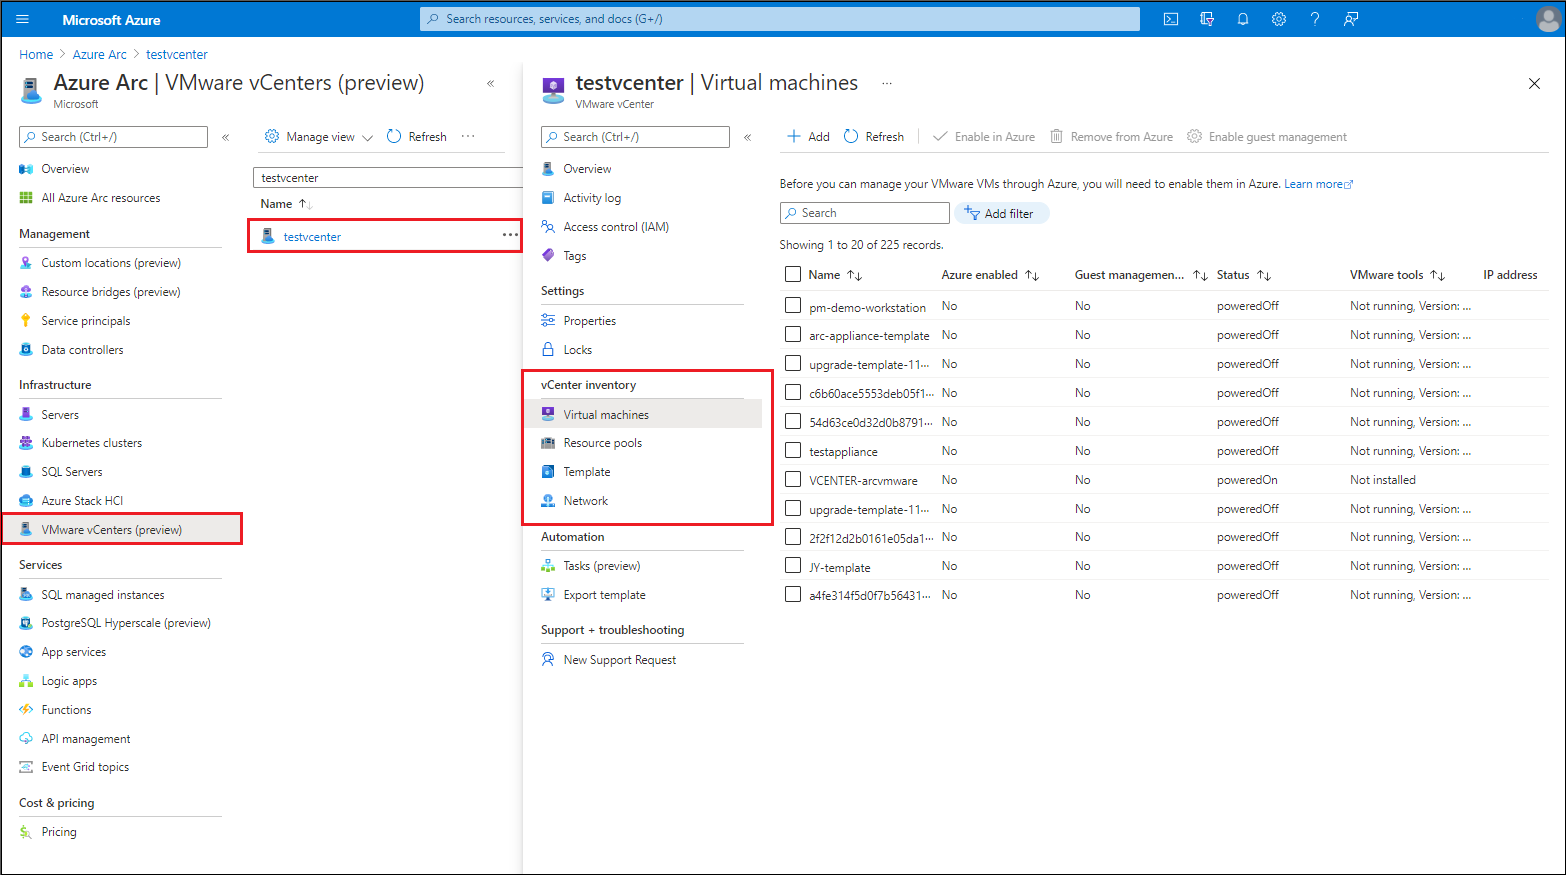
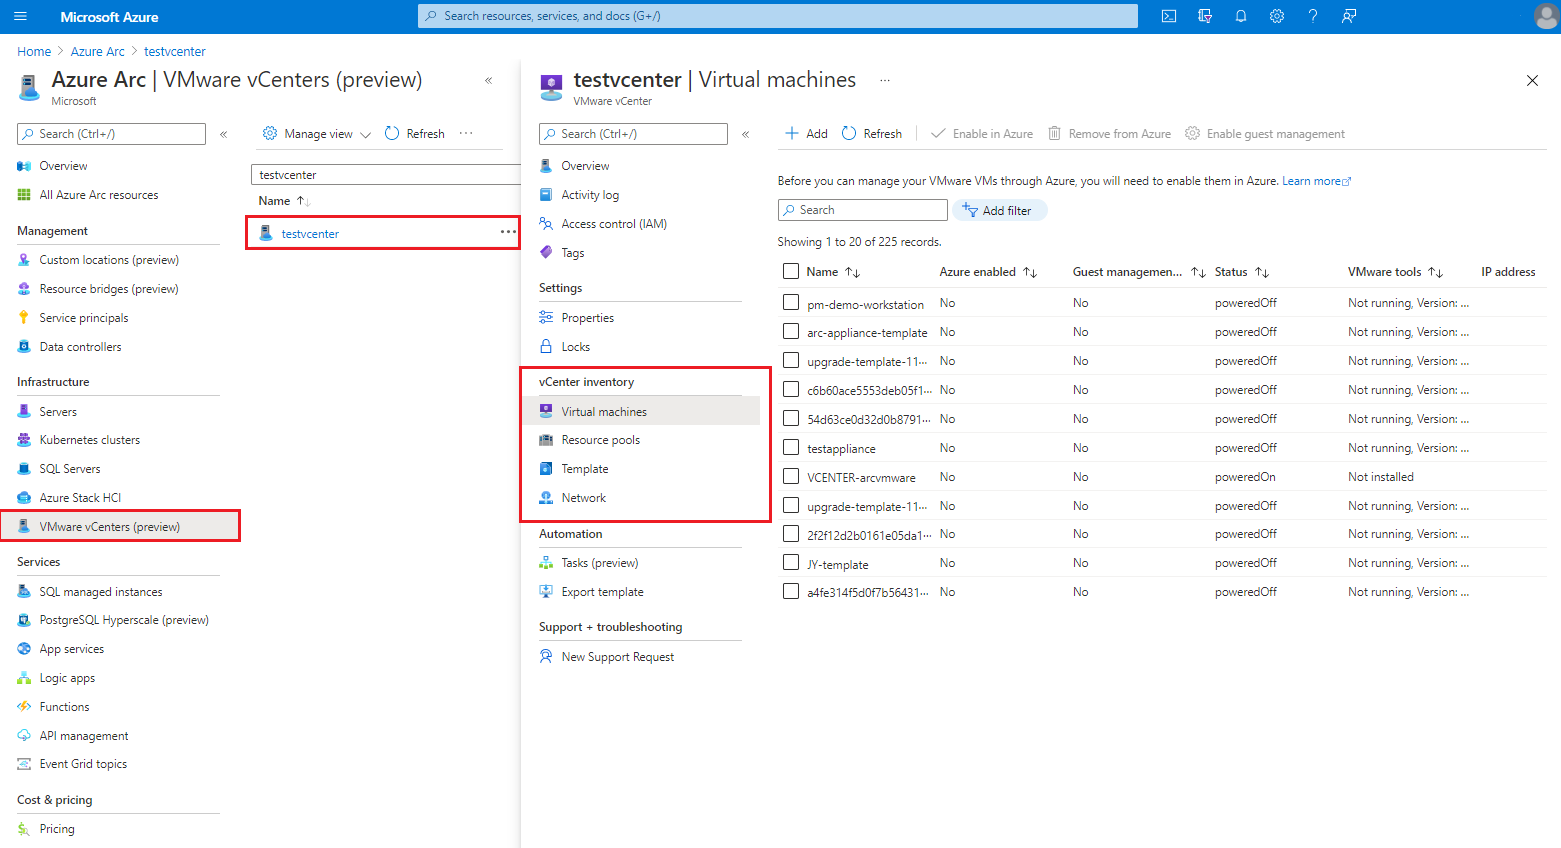
remove borders from images

diff --git a/articles/azure-arc/vmware-vsphere/quick-start-connect-vcenter-to-arc-using-script.md b/articles/azure-arc/vmware-vsphere/quick-start-connect-vcenter-to-arc-using-script.md
@@ -1,18 +1,16 @@
 ---
 title: Connect your VMware vCenter to Azure Arc using the helper script
-description: In this quickstart, you will learn how to use the helper script to connect your VMware vCenter to Azure Arc.
+description: In this quickstart, you'll learn how to use the helper script to connect your VMware vCenter to Azure Arc.
 ms.topic: quickstart 
-ms.custom: 
-ms.date: 09/15/2021
+ms.custom: references_regions
+ms.date: 09/28/2021
 
-# Customer intent: As a VI admin, I want to connect my vCenter to Azure so that I can enable self-service through Arc.
+# Customer intent: As a VI admin, I want to connect my vCenter to Azure to enable self-service through Arc.
 ---
 
 # Quickstart: Connect your VMware vCenter to Azure Arc using the helper script
 
-Before you can start using the Azure Arc enabled VMware vSphere features, you need to connect your VMware vCenter to Azure Arc.
-
-This quickstart shows you how to connect your VMware vCenter to Azure Arc using a helper script. The script deploys a lightweight Azure Arc appliance (called Azure Arc resource bridge) as a virtual machine running in your vCenter environment and install VMware cluster extension on it, to provide a continuous connection between your vCenter server and Azure Arc.
+Before using the Azure Arc-enabled VMware vSphere features, you'll need to connect your VMware vCenter to Azure Arc. This quickstart shows you how to connect your VMware vCenter to Azure Arc using a helper script. First, the script deploys a lightweight Azure Arc appliance, called Azure Arc resource bridge, as a virtual machine running in your vCenter environment. Then, it installs a VMware cluster extension to provide a continuous connection between your vCenter server and Azure Arc.
 
 ## Prerequisites
 
@@ -27,34 +25,33 @@ This quickstart shows you how to connect your VMware vCenter to Azure Arc using 
 
 - vCenter Server running version 6.5 or later.
 
-- Inbound connections allowed on TCP port 443, so that the Arc resource bridge and VMware cluster extension can communicate with the vCenter server.  
+- Inbound connections allowed on TCP port 443 so that the Arc resource bridge and VMware cluster extension can communicate with the vCenter server.  
 
    >[!NOTE]
-   >As of today, only the default port of 443 is supported. If you use a different port, Appliance VM creation fails.  
+   >As of today, only the default port of 443 is supported. If you use a different port, the appliance VM creation fails.  
 
-- A resource pool with minimum free capacity of 16 GB of RAM, 4 vCPUs. 
+- A resource pool with a minimum capacity of 16 GB of RAM, four vCPUs. 
 
-- A datastore with minimum 100 GB of free disk space that is available through the resource pool.
+- A datastore with a minimum of 100 GB of free disk space available through the resource pool.
 
-- An external virtual network/switch and internet access,directly or through proxy to which the appliance VM can be deployed.
+- An external virtual network/switch and internet access, directly or through a proxy.
 
 
 ### vSphere accounts
 
-A vSphere account that can read all inventory, deploy and update VMs to all the resource pools (or clusters), networks and virtual machine templates that you want to use with Azure Arc.  This account is used for the ongoing operation of Azure Arc enabled VMware vSphere as well as the deployment of the Arc Resource bridge VM.
+A vSphere account that can read all inventory, deploy, and update VMs to all the resource pools (or clusters), networks, and virtual machine templates that you want to use with Azure Arc.  This account is used for the ongoing operation of Azure Arc enabled VMware vSphere and the Arc Resource bridge VM deployment.
 
 >[!NOTE]
->If you are using Azure VMware solution, this account would be the `cloudadmin` account.
+>If you are using Azure VMware solution, this account would be the `cloudadmin` account.  
 
 ### Workstation 
 
 A Windows or Linux machine that can access both your vCenter server and internet, directly or through proxy.
 
 
+## Prepare vCenter Server
 
-## Prepare vCenter server
-
-1. Create a resource pool if you don't have one. The resource pool should have a reservation of at least 8 GB of RAM and 4 vCPUs. It should also have at least 100 GB of disk space.
+1. Create a resource pool with a reservation of at least 8 GB of RAM and four vCPUs. It should also have at least 100 GB of disk space.
 
 1. Ensure the vSphere accounts have the appropriate permissions.
 
@@ -66,27 +63,25 @@ A Windows or Linux machine that can access both your vCenter server and internet
 
 | **Parameter** | **Details** | 
 | --- | --- |
-| **Subscription** | Azure subscription name or ID where the Azure resources must be created |
-| **ResourceGroup** | Resource Group where Arc resources must be created |
-| **AzLocation** | Azure location where the resource metadata would be stored. Currently supported regions are eastus and westeurope. |
-| **ApplianceName** | You can provide the Arc resource bridge a name of your choice. Eg: contoso-nyc-appliance |
+| **Subscription** | Azure subscription name or ID where you'll create the Azure resources. |
+| **ResourceGroup** | Resource group where you'll create the Arc resources. |
+| **AzLocation** | Azure location ([region](overview.md#supported-regions)) where the resource metadata would be stored.  |
+| **ApplianceName** | You can provide the Arc resource bridge a name of your choice, for example, *contoso-nyc-appliance*. |
 | **CustomLocationName** | Name for the custom location in Azure. |
-| **VcenterName** | Name for the vCenter in Azure. </br> This will be the name your teams will see when they deploy their VMs through Arc. </br> Name it for the datacenter or physical location of your datacenter. Eg: contoso-nyc-dc |
+| **VcenterName** | Name for the vCenter in Azure, which is the name your teams see when deploying their VMs through Arc. </br> Name it for the data center or physical location of your data center, for example, *contoso-nyc-dc*. |
  
 ### Windows
 
-Follow the below instructions to run the script on a windows machine:
-
 1. Open a PowerShell window and navigate to the folder where you want to keep the setup files.
 
-2. Run the following command to download the script
+2. Download the script.
 
-   ```
+   ```powershell-interactive
    Invoke-WebRequest https://arcvmwaredl.blob.core.windows.net/arc-appliance/arcvmware-setup.ps1 -OutFile arcvmware-setup.ps1
 
    ```
 
-3.	Execute the following command in Powershell to allow the script to run as it is an unsigned script (if you close the session before you complete all the steps, run this again for new session.)
+3.  Allow the script to run as an unsigned script. If you close the session before completing all the steps, rerun this for a new session.
 
     ``` powershell-interactive
     Set-ExecutionPolicy -Scope Process -ExecutionPolicy Bypass
@@ -104,56 +99,66 @@ Follow the below instructions to run the script on a Linux machine:
 
 1. Open the terminal and navigate to the folder where you want to keep the setup files. 
 
-2. Download the onboarding script by running the following command:
+2. Download the onboarding script.
 
    ```
    wget https://arcvmwaredl.blob.core.windows.net/arc-appliance/arcvmware-setup.sh
    ```
 
-3. Update the downloaded script with the following parameters (parameter details [here](#run-the-script)) - ResourceGroup, AzLocation, ApplianceName, CustomerLocationName, VcenterName
+3. Update the script with the following [parameters](#run-the-script):
 
-4. Execute the script using the following comamnd:
+   - ResourceGroup
 
-    ``` sh
+   - AzLocation
+
+   - ApplianceName
+
+   - CustomerLocationName
+
+   - VcenterName
+
+4. Execute the script.
+
+    ```sh
     bash arcvmware-setup.sh 
     ```
 
 ## Script Runtime
-The script execution will take up to half hour and you will be prompted for the various details. Refer to the table below for information on them:
+The script execution may take up to 30 minutes to complete and you'll be prompted for the various details. Refer to the table below for information.
 
 | Requirements | Details |
 | --- | --- |
-| **Azure login** | You would be asked to login to Azure by visiting the [device login](https://www.microsoft.com/devicelogin) site and pasting the prompted code. |
-| **vCenter FQDN/Address** | FQDN for the vCenter (or an ip address). </br> Eg: 10.160.0.1 or nyc-vcenter.contoso.com |
-| **vCenter Username** | Username for the vSphere account. The required permissions for the account are listed in the prerequisites above. |
-| **vCenter password** | Password for the vSphere account |
-| **Data center selection** | Select the name of the datacenter (as shown in vSphere client) where the Arc resource bridge VM should be deployed |
+| **Azure login** | You'll sign into Azure by visiting the [device login](https://www.microsoft.com/devicelogin) site and then pasting the prompted code. |
+| **vCenter FQDN/Address** | FQDN for the vCenter (or an IP address), for example, *10.160.0.1* or *nyc-vcenter.contoso.com*. |
+| **vCenter Username** | Username for the vSphere account. For more information, see [vSphere accounts](#vsphere-accounts) above. |
+| **vCenter password** | Password for the vSphere account. |
+| **Data center selection** | Select the name of the data center (as shown in vSphere client) where the Arc resource bridge VM should be deployed. |
 | **Network selection** | Select the name of the virtual network or segment to which VM must be connected. This network should allow the appliance to talk to the vCenter server and the Azure endpoints (or internet). |
-| **Static IP / DHCP** | If you have DHCP server in your network and want to use it, type ‘y’ else ‘n’. On choosing static IP configuration, you will be asked the following: <ul><li>Static IP address prefix : Network address in CIDR notation E.g. 192.168.0.0/24</li><li>Static gateway: Eg. 192.168.0.0</li><li>DNS servers: Comma separated list of DNS servers</li><li>Start range IP: Minimum size of 2 available addresses is required for upgrade scenarios. Provide the start IP of that range</li><li>End range IP: the last IP of the IP range requested in previous field.</li><li>VLAN ID (Optional)</li></ul> |
-| **Resource pool** | Select the name of the resource pool to which the Arc resource bridge VM would be deployed |
-| **Data store** | Select the name of the datastore to be used for Arc resource bridge VM |
+| **Static IP / DHCP** | If you have a DHCP server in your network and want to use it, type **y** and then populate the following: <ul><li><b>Static IP address prefix</b>: Network address in CIDR notation, for example, 192.168.0.0/24.</li><li><b>Static gateway</b>: For example, 192.168.0.0.</li><li><b>DNS servers</b>: Comma-separated list of DNS servers.</li><li><b>Start range IP</b>: Minimum size of two available addresses is required for upgrade scenarios. Provide the start IP of that range.</li><li><b>End range IP</b>: Last IP of the IP range requested in the previous field.</li><li><b>VLAN ID</b> (optional)</li></ul> |
+| **Resource pool** | Select the name of the resource pool to which the Arc resource bridge VM would be deployed. |
+| **Data store** | Select the name of the datastore to be used for Arc resource bridge VM. |
 | **Folder** | Select the name of the vSphere folder where Arc resource bridge VM should be deployed. |
-| **Vm template Name** | Provide a name for the VM template that will be created in your vCenter based on the downloaded OVA. Eg: arc-appliance-template |
-| **Control Pane IP** | Provide a reserved IP address (a reserved IP address in your DHCP range or a static IP outside of DHCP range but still available on the network). The key thing is this IP address shouldn't be assigned to any other machine on the network. |
-| **Appliance proxy settings** | Type ‘y’ if there is proxy in your appliance network, else type ‘n’. </br> You need to populate the following when you have proxy setup: <ul><li>Http: Address of http proxy server</li><li>Http: Address of http proxy server</li><li>NoProxy: addresses to be excluded from proxy</li><li>CertificateFilePath: for ssl based proxies, path to certificate to be used</li></ul> |
+| **Vm template Name** | Provide a name for the VM template that will be created in your vCenter based on the downloaded OVA. For example,  arc-appliance-template. |
+| **Control Pane IP** | Provide a reserved IP address. A reserved IP address in your DHCP range or a static IP outside of DHCP range but still available on the network. The key thing is this IP address shouldn't be assigned to any other machine on the network. |
+| **Appliance proxy settings** | If you have a proxy in your appliance network, type **y** and then populate the following: <ul><li><b>Http</b>: Address of HTTP proxy server.</li><li><b>NoProxy</b>: addresses to be excluded from proxy.</li><li><b>CertificateFilePath</b>: for SSL-based proxies, path to certificate to be used.</li></ul> |
 
-Once the command execution completed, your setup is complete and you can try out the capabilities of Azure Arc enabled VMware vSphere. You can proceed to the [next steps](browse-and-enable-vcenter-resources-in-azure.md)
+Once the command execution completes, you can [try out the capabilities](browse-and-enable-vcenter-resources-in-azure.md) of Azure Arc enabled VMware vSphere. 
 
 ### Retry command - Windows
 
-1. If for whatever reason, the appliance creation fails and you need to retry it. Running the command with `-Force` would cleanup and onboard again. 
+If the appliance creation fails and you need to retry it. Run the command with `-Force` would clean up and onboard again. 
 
-   ``` powershell-interactive
-   ./arcvmware-setup.ps1 -Force -Subscription <Subscription> -ResourceGroup <ResourceGroup> -AzLocation <AzLocation> -ApplianceName <ApplianceName> -CustomLocationName <CustomLocationName> -VcenterName <VcenterName>
-   ```
+``` powershell-interactive
+./arcvmware-setup.ps1 -Force -Subscription <Subscription> -ResourceGroup <ResourceGroup> -AzLocation <AzLocation> -ApplianceName <ApplianceName> -CustomLocationName <CustomLocationName> -VcenterName <VcenterName>
+```
 
 ### Retry command - Linux
 
-1. If for whatever reason, the appliance creation fails and you need to retry it. Running the command with ```--force``` would cleanup and onboard again. 
+If the appliance creation fails and you need to retry it. Run the command with `--force` would clean up and onboard again. 
 
-    ```sh
-    bash arcvmware-setup.sh --force
-    ```
+```bash
+bash arcvmware-setup.sh --force
+```
 
 ## Next Steps
 

diff --git a/articles/azure-arc/vmware-vsphere/quick-start-create-a-vm.md b/articles/azure-arc/vmware-vsphere/quick-start-create-a-vm.md
@@ -9,17 +9,17 @@ ms.date: 04/05/2021
 
 # Quickstart: Create a virtual machine on VMware vCenter using Azure Arc
 
-Once your administrator has connected a VMware vCenter to Azure, represented VMware vCenter resources in Azure and provided you permissions on those resources in Azure, you will be able to create a virtual machine
+Once your administrator has connected a VMware vCenter to Azure, represented VMware vCenter resources in Azure, and provided you permissions on those resources, you'll be able to create a virtual machine.
 
-## Pre-requisites
+## Prerequisites
 
 - An Azure subscription and resource group where you have Arc VMware VM contributor role
 
 - A resourcepool resource on which you have Arc Private Cloud Resource User Role
 
-- A virtual machine template resource on which on which you have Arc Private Cloud Resource User Role
+- A virtual machine template resource on which you have Arc Private Cloud Resource User Role
 
-- (Optional) A virtual network resource on which on which you have Arc Private Cloud Resource User Role
+- (Optional) A virtual network resource on which you have Arc Private Cloud Resource User Role
 
 ## How to create a VM in Azure portal
 
@@ -27,7 +27,7 @@ Once your administrator has connected a VMware vCenter to Azure, represented VMw
 
 2. You will see the new unified virtual machine browse experience that also includes Arc VMs.
 
-    ![unified browse experience for azure and arc vms](media/vm-browse.png)
+    ![unified browse experience for Azure and arc vms](media/vm-browse.png)
 
 3. Click on **+Add**
 

diff --git a/articles/azure-arc/vmware-vsphere/overview.md b/articles/azure-arc/vmware-vsphere/overview.md
@@ -2,7 +2,7 @@
 title: What is Azure Arc-enabled VMware vSphere?
 description: Azure Arc enabled VMware vSphere extends Azure's governance and management capabilities to VMware vSphere infrastructure and delivers a consistent management experience across both platforms. 
 ms.topic: overview
-ms.date: 10/25/2021
+ms.date: 09/28/2021
 ms.custom: references_regions
 ---
 
@@ -47,6 +47,7 @@ The following scenarios are supported in Azure Arc-enabled VMware vSphere:
 Azure Arc enabled VMware vSphere is currently supported in these regions:
 
 - East US
+
 - West Europe
 
 ## Next steps

diff --git a/articles/azure-arc/vmware-vsphere/manage-vmware-vms-in-azure.md b/articles/azure-arc/vmware-vsphere/manage-vmware-vms-in-azure.md
@@ -25,7 +25,7 @@ You can perform various operations on the VMware VMs that are enabled by Azure A
 - Install extensions (guest management enabled is required)
 
 
-:::image type="content" source="media/manage-vms.png" alt-text="Screenshot showing the VMware virtual machine operations.":::
+:::image type="content" source="media/manage-vms.png" alt-text="Screenshot showing the VMware virtual machine operations." lightbox="media/manage-virtual-machines.png":::
 
 
 
